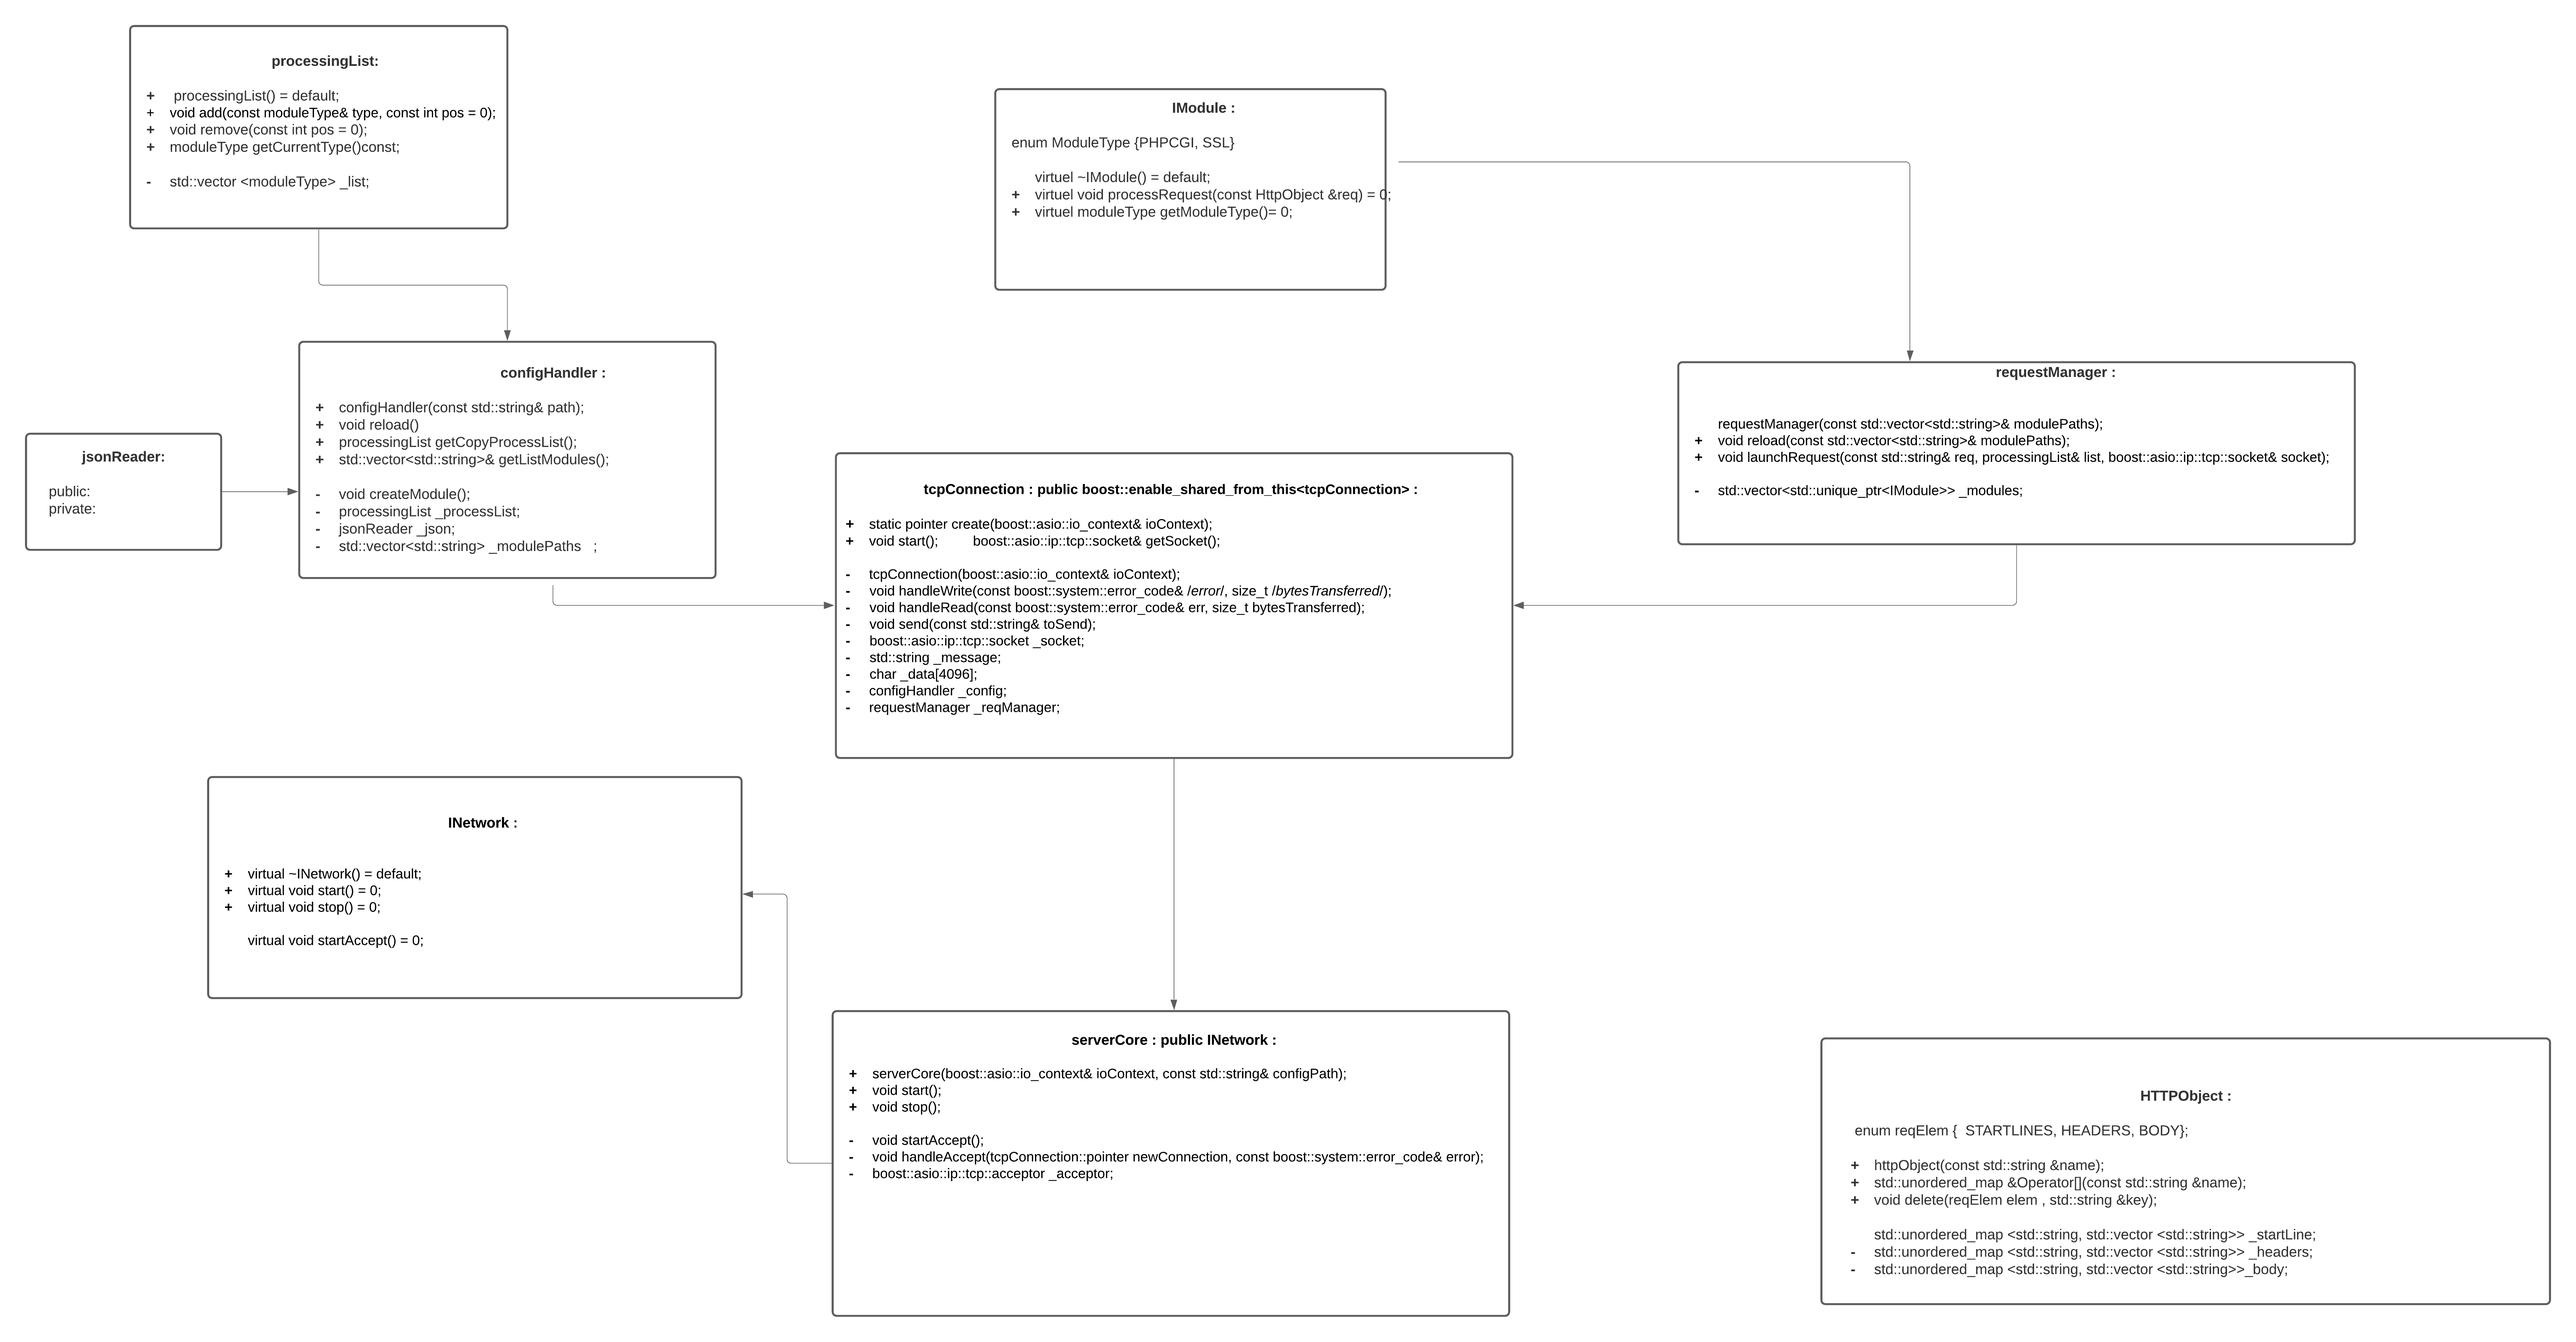
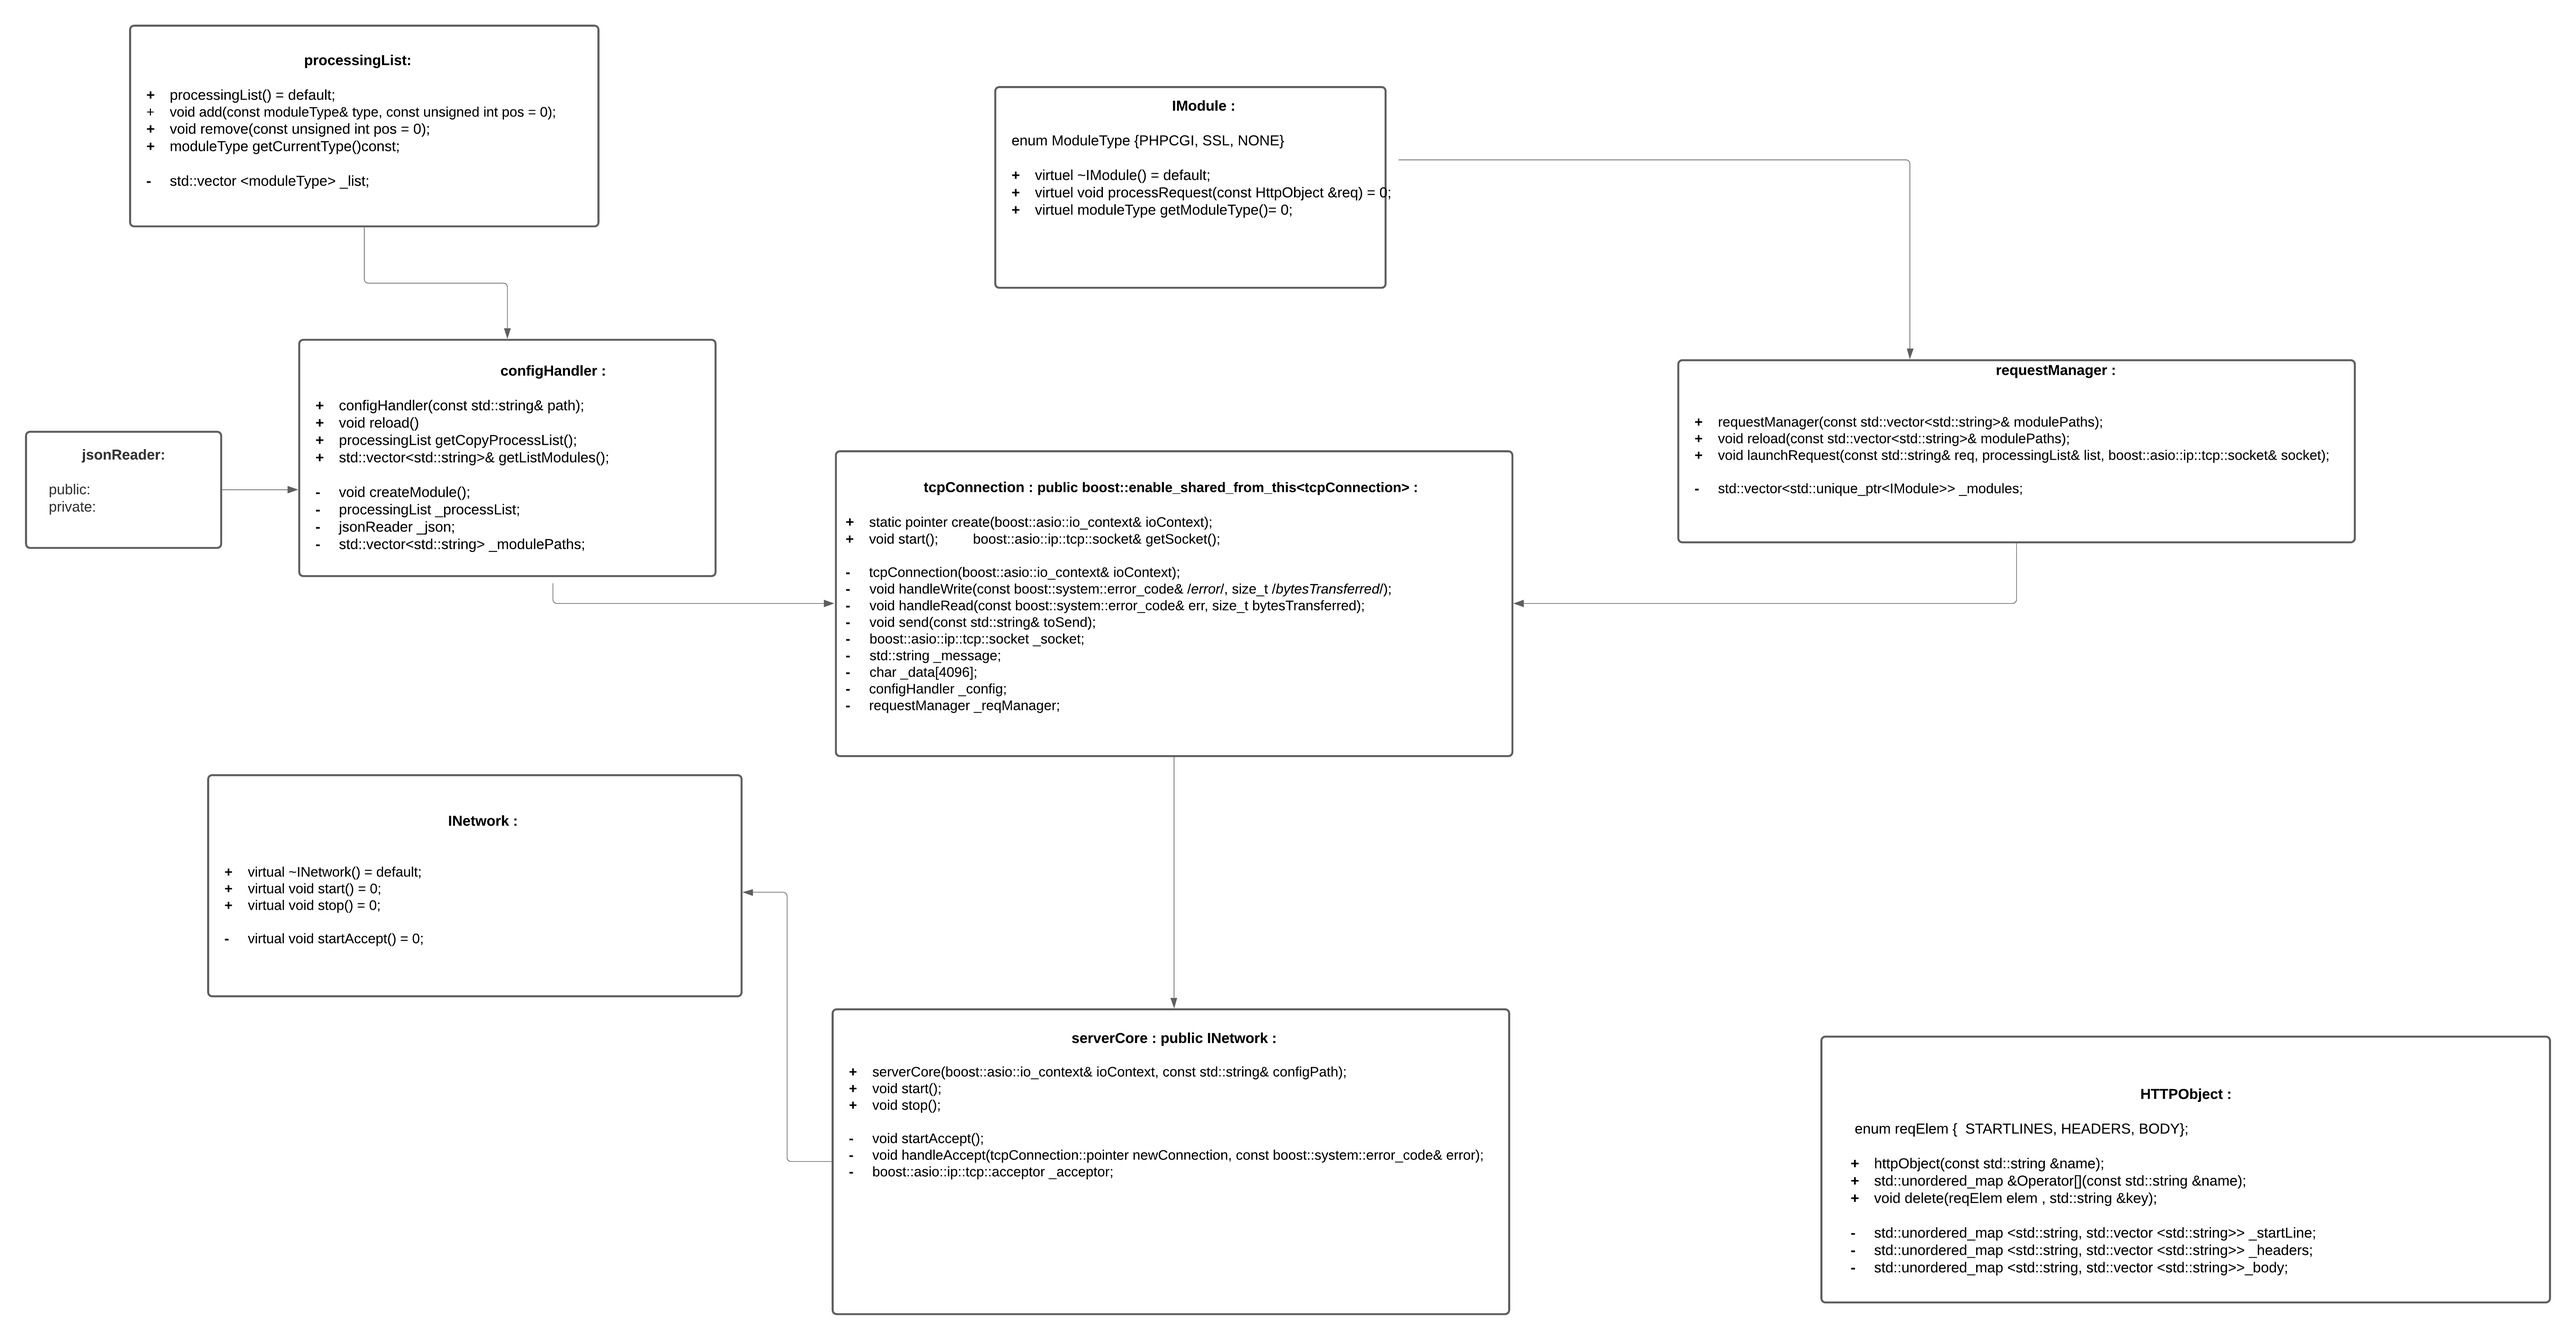
add moduleType/INetwork/IModule + processingList & unit_tests, UML updated

diff --git a/tests/testProcessingList.cpp b/tests/testProcessingList.cpp
@@ -1,0 +1,80 @@
+/*
+** EPITECH PROJECT, 2020
+** B-YEP-500-NAN-5-1-zia-arthur.bertaud
+** File description:
+** testProcessingList.cpp
+*/
+
+#include <criterion/criterion.h>
+#include <criterion/redirect.h>
+#include "processingList.hpp"
+
+Test(processSimpleAdd, processingList)
+{
+    processingList processList;
+
+    processList.add(moduleType::PHPCGI);
+    processList.add(moduleType::SSL);
+
+    cr_assert_eq(processList.getCurrentType(), moduleType::SSL);
+}
+
+Test(processRemoveAdd, processingList)
+{
+    processingList processList;
+
+    processList.add(moduleType::PHPCGI);
+    processList.add(moduleType::SSL);
+
+    cr_assert_eq(processList.getCurrentType(), moduleType::SSL);
+    processList.remove();
+    cr_assert_eq(processList.getCurrentType(), moduleType::PHPCGI);
+}
+
+Test(processAddAtPos, processingList)
+{
+    processingList processList;
+
+    processList.add(moduleType::PHPCGI);
+    processList.add(moduleType::PHPCGI);
+    processList.add(moduleType::SSL, 1);
+
+    processList.remove();
+    cr_assert_eq(processList.getCurrentType(), moduleType::SSL);
+}
+
+Test(processRemoveAtPos, processingList)
+{
+    processingList processList;
+
+    processList.add(moduleType::PHPCGI);
+    processList.add(moduleType::PHPCGI);
+    processList.add(moduleType::SSL, 1);
+
+    processList.remove(1);
+    processList.remove();
+    cr_assert_eq(processList.getCurrentType(), moduleType::PHPCGI);
+}
+
+Test(processAddHigher, processingList)
+{
+    processingList processList;
+
+    processList.add(moduleType::PHPCGI);
+    processList.add(moduleType::PHPCGI);
+    processList.add(moduleType::SSL, 3);
+
+    processList.remove();
+    processList.remove();
+    cr_assert_eq(processList.getCurrentType(), moduleType::SSL);
+}
+
+Test(processRemoveHigher, processingList)
+{
+    processingList processList;
+
+    processList.add(moduleType::PHPCGI);
+
+    processList.remove(10);
+    cr_assert_eq(processList.getCurrentType(), moduleType::NONE);
+}

diff --git a/src/Server/processingList.cpp b/src/Server/processingList.cpp
@@ -1,0 +1,34 @@
+/*
+** EPITECH PROJECT, 2021
+** B-YEP-500-NAN-5-1-zia-arthur.bertaud
+** File description:
+** processingList
+*/
+
+#include "processingList.hpp"
+
+void processingList::add(const moduleType &type, const unsigned int pos)
+{
+    if (pos > _list.size())
+        _list.push_back(type);
+    else {
+        auto itPos = _list.begin() + pos;
+        _list.insert(itPos, type);
+    }
+}
+
+void processingList::remove(const unsigned int pos)
+{
+    auto sizeMax = (_list.size() - 1);
+    if (pos > sizeMax)
+        _list.erase(_list.begin() + static_cast<long int>(sizeMax));
+    else
+        _list.erase(_list.begin() + pos);
+}
+
+moduleType processingList::getCurrentType() const
+{
+    if (_list.size() == 0)
+        return (moduleType::NONE);
+    return (_list.front());
+}

diff --git a/include/Server/processingList.hpp b/include/Server/processingList.hpp
@@ -1,0 +1,27 @@
+/*
+** EPITECH PROJECT, 2021
+** B-YEP-500-NAN-5-1-zia-arthur.bertaud
+** File description:
+** processingList
+*/
+
+#ifndef PROCESSINGLIST_HPP_
+#define PROCESSINGLIST_HPP_
+
+#include "moduleType.hpp"
+#include <vector>
+
+class processingList {
+    public:
+    processingList() = default;
+    void add(const moduleType& type, const unsigned int pos = 0);
+    void remove(const unsigned int pos = 0);
+    moduleType getCurrentType() const;
+    processingList(const processingList& other) = default;
+    processingList& operator=(const processingList& other) = default;
+    ~processingList() = default;
+private:
+    std::vector <moduleType> _list;
+};
+
+#endif /* !PROCESSINGLIST_HPP_ */

diff --git a/include/Server/IModule.hpp b/include/Server/IModule.hpp
@@ -1,0 +1,23 @@
+/*
+** EPITECH PROJECT, 2021
+** B-YEP-500-NAN-5-1-zia-arthur.bertaud
+** File description:
+** IModule
+*/
+
+#ifndef IMODULE_HPP_
+#define IMODULE_HPP_
+
+#include "moduleType.hpp"
+
+class HTTPObject;
+
+class IModule {
+    public:
+    virtual ~IModule() = default;
+    virtual void processRequest(const HTTPObject &req) = 0;
+    virtual moduleType getModuleType()= 0;
+    private:
+};
+
+#endif /* !IMODULE_HPP_ */

diff --git a/include/Server/INetwork.hpp b/include/Server/INetwork.hpp
@@ -1,0 +1,21 @@
+/*
+** EPITECH PROJECT, 2021
+** B-YEP-500-NAN-5-1-zia-arthur.bertaud
+** File description:
+** INetwork
+*/
+
+#ifndef INETWORK_HPP_
+#define INETWORK_HPP_
+
+class INetwork {
+    public:
+        virtual ~INetwork() = default;
+        virtual void start() = 0;
+        virtual void stop() = 0;
+    protected:
+    private:
+        virtual void startAccept() = 0;
+};
+
+#endif /* !INETWORK_HPP_ */

diff --git a/include/Server/moduleType.hpp b/include/Server/moduleType.hpp
@@ -1,0 +1,17 @@
+/*
+** EPITECH PROJECT, 2021
+** B-YEP-500-NAN-5-1-zia-arthur.bertaud
+** File description:
+** moduleType
+*/
+
+#ifndef MODULETYPE_HPP_
+#define MODULETYPE_HPP_
+
+enum moduleType {
+    PHPCGI,
+    SSL,
+    NONE
+};
+
+#endif /* !MODULETYPE_HPP_ */
